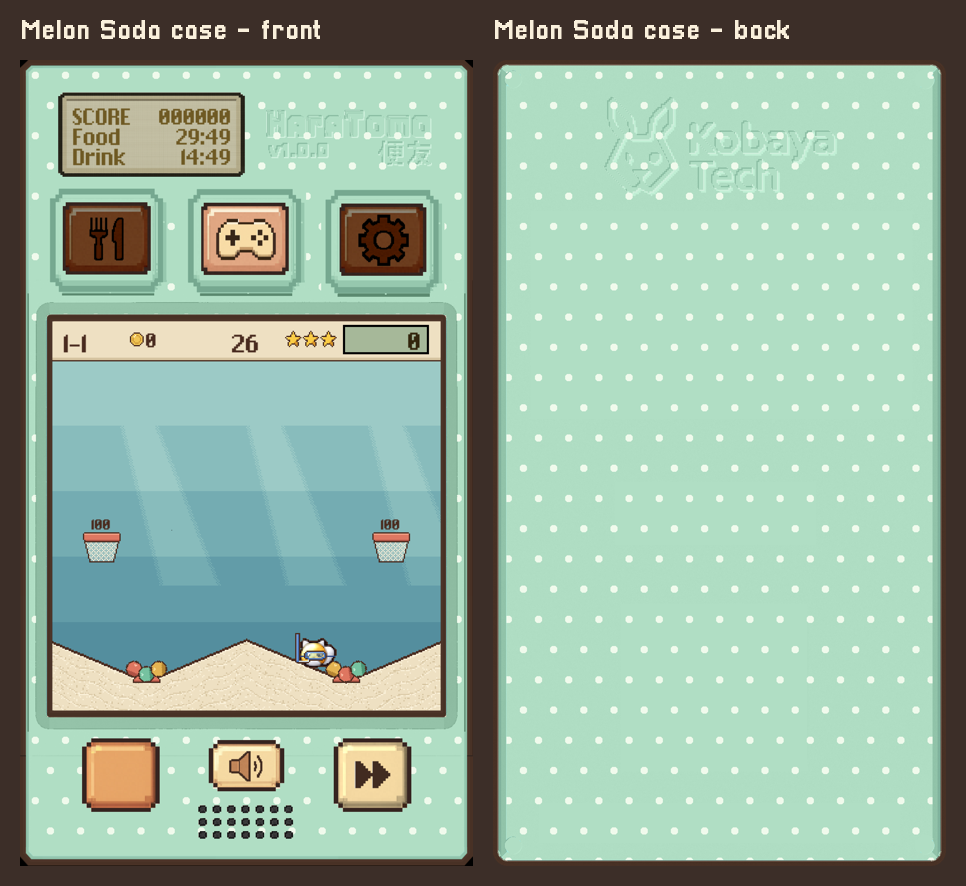
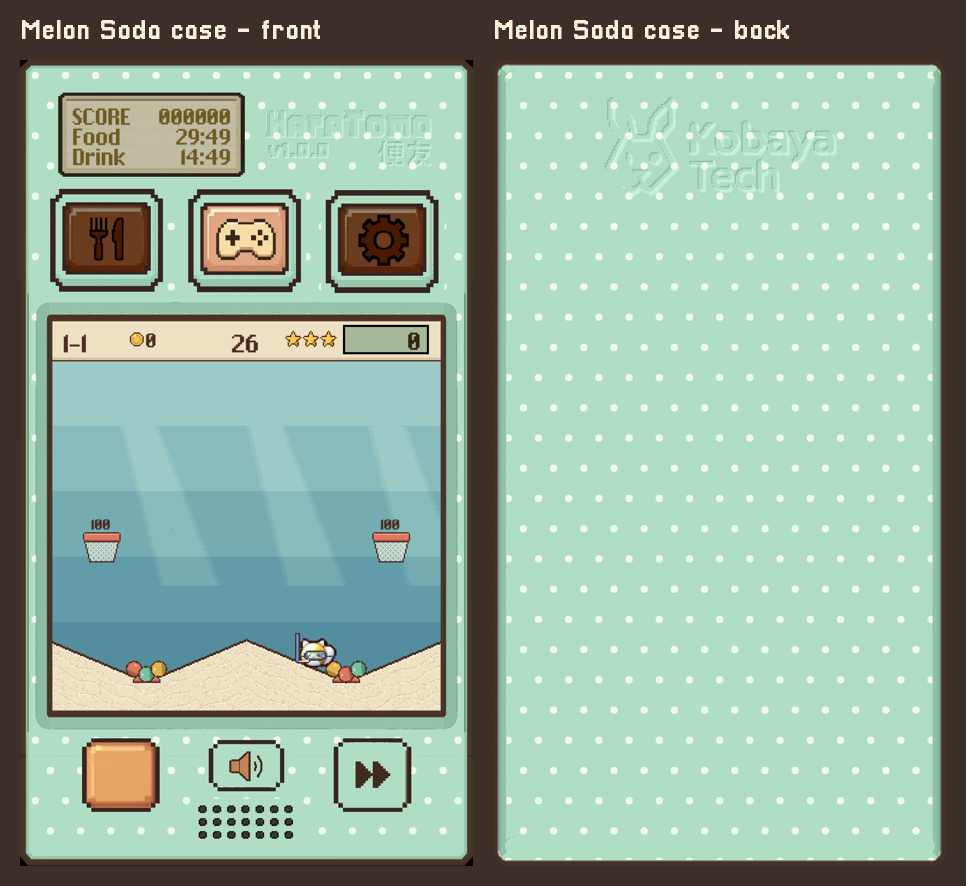
Melon Soda case front: buttons' dark brown outlines kept at their thickness, the cream under / round them in the case colour, the bottom buttons and the speaker as they were

Changed region(s): [[0.0311, 0.2133, 0.4658, 0.3352], [0.3416, 0.8228, 0.4348, 0.9142], [0.2174, 0.8228, 0.3106, 0.9142]]

diff --git a/tools/art/case_melon.py b/tools/art/case_melon.py
@@ -1,0 +1,120 @@
+from PIL import Image, ImageDraw, ImageFont
+import numpy as np
+from scipy.ndimage import binary_dilation, label
+SP='/private/tmp/claude-501/-Users-xaviergrau-Documents-PoopPal-Godot-poop-pal-main-kiro/3f4ad48c-4964-4225-af04-b57eada39524/scratchpad/'
+BODY = np.array([176, 222, 196]); DOT = (240, 250, 236)
+SIDE = (146, 196, 170); EDGE = (118, 168, 144); CARVE_D = (140, 190, 164); CARVE_L = (206, 240, 220)
+REF = np.array([250, 237, 217]); TAN = np.array([215, 181, 141])
+def shift(m, dx, dy):
+    o = np.zeros_like(m); h, w = m.shape
+    o[max(dy,0):h+min(dy,0), max(dx,0):w+min(dx,0)] = m[max(-dy,0):h+min(-dy,0), max(-dx,0):w+min(-dx,0)]
+    return o
+def carve(rgb, m):
+    rgb[m] = BODY; rgb[m & ~shift(m, 3, 3)] = CARVE_D; rgb[m & ~shift(m, -3, -3)] = CARVE_L
+NODOTS = []
+def dots(rgb, m):
+    h, w = m.shape; yy, xx = np.mgrid[0:h, 0:w]; cell = 72
+    cx = (xx + (yy // cell % 2) * cell // 2) % cell - cell // 2; cy = yy % cell - cell // 2
+    px, py = xx - cx, yy - cy                       # each dot's centre
+    ok = np.ones_like(m)
+    for (x0, y0, x1, y1) in NODOTS:
+        ok &= ~((xx >= x0) & (xx < x1) & (yy >= y0) & (yy < y1))
+    rgb[m & ok & ((cx * cx + cy * cy) < 81)] = DOT
+def make(path, keep_boxes, cover=(), logo_box=None, logo_tones=None, front_logo=None):
+    a = np.asarray(Image.open(path).convert('RGBA')).astype(int)
+    rgb, alpha = a[..., :3].copy(), a[..., 3] > 0
+    h, w = alpha.shape
+    keep = np.zeros((h, w), bool)
+    for (x0, y0, x1, y1) in keep_boxes: keep[y0:y1, x0:x1] = True
+    shell = (np.abs(rgb - REF).sum(-1) < 40) & alpha & ~keep
+    off = (rgb - REF).mean(-1, keepdims=True)
+    rgb[shell] = np.clip(BODY + off[shell] * 1.4, 0, 255)
+    for (x0, y0, x1, y1) in cover:                  # under the case (the sticker): plain shell
+        c = np.zeros_like(alpha); c[y0:y1, x0:x1] = True; c &= alpha
+        rgb[c] = BODY; shell |= c
+    xx = np.mgrid[0:h, 0:w][1]
+    # the device's sides: every tone shifted into the case's (its shade lines kept), the dark
+    # outline and the black corners left exactly as they are
+    yy_ = np.mgrid[0:h, 0:w][0]
+    side = ((xx < 70) | (xx > w - 70) | (yy_ < 40) | (yy_ > h - 40)) & alpha & (rgb.sum(-1) > 330) & ~shell & ~keep
+    rgb[side] = np.clip(np.array(SIDE) + (rgb[side] - TAN) * 1.1, 0, 255)
+    dark = alpha & (rgb.sum(-1) < 300) & ~keep
+    outside = ~alpha.copy(); outside[0, :] = outside[-1, :] = True; outside[:, 0] = outside[:, -1] = True
+    rim = dark & binary_dilation(outside, iterations=14)     # (left dark: the device's own outline)
+    lab, n = label(alpha & (rgb.sum(-1) < 520) & ~keep & ~rim)
+    for i in range(1, n + 1):
+        ys, xs = np.nonzero(lab == i)
+        if len(ys) < 1500 and (ys.mean() < 120 or ys.mean() > h - 120) and (xs.mean() < 120 or xs.mean() > w - 120):
+            z = binary_dilation(lab == i, iterations=5) & alpha & ~rim
+            rgb[z] = BODY; shell |= z
+    if logo_box:
+        x0, y0, x1, y1 = logo_box; lm = np.zeros((h, w), bool); sub = rgb[y0:y1, x0:x1]
+        hit = np.zeros(sub.shape[:2], bool)
+        for t in logo_tones: hit |= np.abs(sub - np.array(t)).sum(-1) < 24
+        lm[y0:y1, x0:x1] = hit; carve(rgb, lm); shell |= lm
+    if front_logo:
+        x0, y0, x1, y1 = front_logo; lm = np.zeros((h, w), bool)
+        lm[y0:y1, x0:x1] = ~shell[y0:y1, x0:x1] & alpha[y0:y1, x0:x1]
+        carve(rgb, lm); shell |= lm
+    for (ox0, oy0, ox1, oy1), (ix0, iy0, ix1, iy1) in BUMPS if path.endswith('w0_play.png') else []:
+        ring = np.zeros_like(alpha); ring[oy0:oy1, ox0:ox1] = True; ring[iy0:iy1, ix0:ix1] = False; ring &= alpha
+        ring &= ~shell                                 # (only the button's own frame: not the case round it)
+        lum = rgb.sum(-1)
+        hi = ring & (lum >= 600); mid = ring & (lum >= 330) & (lum < 600); lo = ring & (lum < 330)
+        rgb[hi] = BODY; rgb[mid] = (150, 200, 174)    # the bump: case colour (its dark brown outlines left as they are)
+        # in the hole: whatever is OUTSIDE the button's dark outline (cream corners, a brown spot) is
+        # case; inside the outline the button keeps every colour of its own
+        sub = rgb[iy0 - 4:iy1 + 4, ix0 - 4:ix1 + 4]
+        openp = sub.sum(-1) >= 330
+        lab_, n_ = label(openp)
+        edge_ids = set(np.unique(np.concatenate([lab_[0], lab_[-1], lab_[:, 0], lab_[:, -1]]))) - {0}
+        outside = np.isin(lab_, list(edge_ids))
+        sub[outside] = BODY
+        # the faces' rounded corners: the cream specks between the corner and the box's edge
+        hh, ww = sub.shape[:2]
+        yy2, xx2 = np.mgrid[0:hh, 0:ww]
+        near_edge = (np.minimum(np.minimum(yy2, hh - 1 - yy2), np.minimum(xx2, ww - 1 - xx2)) < 12)
+        corner_zone = near_edge & ((yy2 < 22) | (yy2 > hh - 23)) & ((xx2 < 22) | (xx2 > ww - 23))
+        specks = corner_zone & (sub.sum(-1) > 600)
+        sub[specks] = BODY
+        NODOTS.append((ox0, oy0, ox1, oy1))           # (no dots inside the frame)
+    if path.endswith('w0_play.png'):
+        # round every button: whatever light lies outside its dark outline (a cream stripe under it,
+        # its lower corners) is case; the button and its outline stay exactly as they are
+        for (ox0, oy0, ox1, oy1) in AROUND:
+            sub = rgb[oy0:oy1, ox0:ox1]
+            openp = sub.sum(-1) >= 330
+            lab_, n_ = label(openp)
+            ids = set(np.unique(np.concatenate([lab_[0], lab_[-1], lab_[:, 0], lab_[:, -1]]))) - {0}
+            outside = np.isin(lab_, list(ids)) & (np.abs(sub - BODY).sum(-1) > 30) & (np.abs(sub - np.array(DOT)).sum(-1) > 30)
+            sub[outside] = BODY
+        # the screen's bezel: the case reaches the screen's dark border; its shaded band stays shaded
+        bz = np.zeros_like(alpha); bz[556:1600, 18:1062] = True; bz[608:1565, 65:1016] = False
+        bz &= alpha & (rgb.sum(-1) > 500) & (np.abs(rgb - BODY).sum(-1) > 30)
+        off2 = (rgb - REF).mean(-1, keepdims=True)
+        rgb[bz] = np.clip(BODY + off2[bz] * 1.4, 0, 255)
+    dots(rgb, shell)
+    return Image.fromarray(np.dstack([rgb, a[..., 3]]).astype(np.uint8))
+# the case's bumps: the button's frame (outer box) in the case's colours, a hole for the face (inner box)
+BUMPS = [((58, 293, 352, 568), (102, 338, 312, 512)), ((388, 293, 682, 568), (432, 338, 642, 512)),
+         ((718, 293, 1012, 568), (762, 338, 972, 512))]       # (only the menu buttons)
+# the buttons' surroundings (menu buttons, then the bottom three), and the speaker (no dots there)
+AROUND = [(50, 285, 360, 578), (380, 285, 690, 578), (710, 285, 1020, 578),
+          (130, 1595, 352, 1812), (428, 1600, 652, 1768), (728, 1595, 952, 1812)]
+SPEAKER = (405, 1760, 675, 1870)
+front_keep = [(102, 338, 312, 512), (432, 338, 642, 512), (762, 338, 972, 512),
+              (160, 1627, 320, 1778), (460, 1630, 620, 1736), (760, 1627, 920, 1778),
+              (65, 608, 1016, 1565), (96, 86, 530, 274)]
+NODOTS.append(SPEAKER)
+F = make(SP + 'shots9/w0_play.png', front_keep, front_logo=(575, 105, 1000, 265))
+NODOTS.clear()                 # (the front's button frames: not on the back)
+B = make('textures/console/back.png', [], cover=[(90, 360, 1000, 855), (305, 1295, 750, 1695), (290, 1005, 770, 1155), (110, 1770, 970, 1865)],
+         logo_box=(243, 83, 860, 321), logo_tones=[(234, 219, 194), (200, 166, 130), (255, 249, 238)])
+k = 0.42
+tiles = [im.resize((int(1080 * k), int(1920 * k))) for im in (F, B)]
+W = tiles[0].width
+sheet = Image.new('RGBA', (W * 2 + 60, tiles[0].height + 80), (60, 46, 40, 255))
+d = ImageDraw.Draw(sheet); font = ImageFont.truetype('fonts/Pixellari.ttf', 28)
+for i, (t, l) in enumerate(zip(tiles, ['Melon Soda case - front', 'Melon Soda case - back'])):
+    x = 20 + i * (W + 20); sheet.alpha_composite(t, (x, 60)); d.text((x, 18), l, fill=(250, 240, 220), font=font)
+sheet.save('docs/mockups/case_melon_soda.png'); print('ok')
